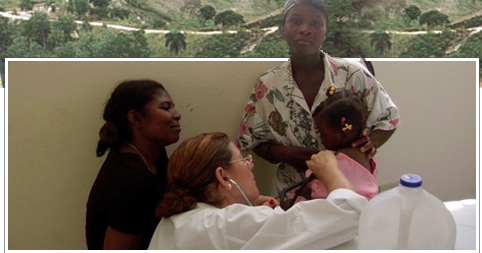
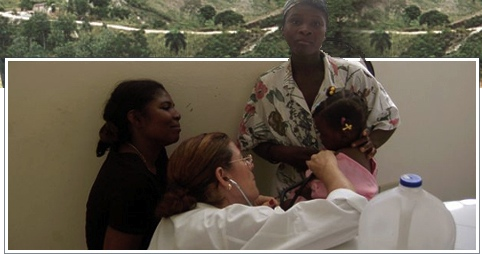
fixed overlap images and repeating sidebar message

diff --git a/app/assets/stylesheets/saint_rock.css.scss b/app/assets/stylesheets/saint_rock.css.scss
@@ -40,19 +40,21 @@ body {
 .header-overlap-image1 {
   background: url('/assets/overlap1.jpg') no-repeat top left;
   width: 482px;
-  height: 253px;
+  height: 254px;
   left: -21px;
   top: -92px;
   position: relative;
+  margin-bottom: -92px;
 }
 
 .header-overlap-image2 {
   background: url('/assets/overlap2.jpg') no-repeat top left;
   width: 482px;
-  height: 253px;
+  height: 254px;
   left: -21px;
   top: -92px;
   position: relative;
+  margin-bottom: -92px;
 }
 
 #body_content {
